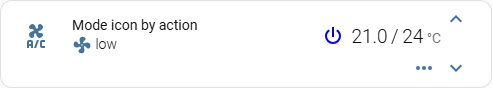
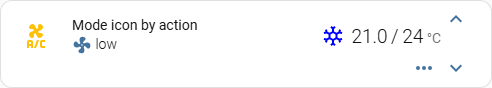
docs: config examples in English, and the answers around them corrected (#282)
## What

The examples are in English, and the answers around them are true - the second
half grew out of checking the first against a running Home Assistant.

### The examples, in English

- `docs/examples.md`: `name`, `fan_mode.source`, the `swing_mode` Off/On and the
  power values; the esphome intro points at the project itself, not the
  `esphome-mqtt-climate` repo, which is being removed.
- `docs/secondary-info.md`: the `hvac-action` Cooling labels, and a duplicated
  "set your own icon" block dropped.

### The answer that did not work

`sharedStyle` paints `ha-icon-button[color]` with `color` and `opacity`
`!important`, and the attribute goes on while the control is active -
`climate.isOn` for `hvac_mode`, `isOn` for a button. So a `color` from a style
template is dropped exactly when the control is doing the thing the example is
about. The mode icon answer was written for a cooling unit and worked only
while the unit was off.

The bench scenario had been green throughout: the MQTT fixture starts in `off`,
and the scenario drove `hvac_action` without ever switching the unit on, so it
never met the rule it was meant to hold up.

- `docs/examples.md`: two answers where there was one - colour by the mode, and
  colour by `hvac_action` - each carrying the `!important` and why.
- `docs/functions.md`: the rule stated where a reader looking up `style` lands,
  with an example that sets both a property that needs one and a property that
[…]

Changed region(s): [[0.6402, 0.2955, 0.7012, 0.5227], [0.0305, 0.4545, 0.0915, 0.5455], [0.061, 0.2727, 0.0915, 0.4318]]

diff --git a/docs/examples.md b/docs/examples.md
@@ -1,21 +1,19 @@
 # Examples
 
-[Home](../README.md) | [Configuration](configuration.md) | [Controls](controls.md) | [Indicators](indicators.md) | [Buttons](buttons.md) | [Functions](functions.md) | [Tap action](tap-action.md) | [Secondary info](secondary-info.md) | [Examples](examples.md) | [Development](development.md)
+[Home](../README.md) | [Configuration](configuration.md) | [Controls](controls.md) | [Indicators](indicators.md) | [Buttons](buttons.md) | [Functions](functions.md) | [Tap action](tap-action.md) | [Secondary info](secondary-info.md) | [Examples](examples.md) | [Development](development.md) | [Visual editor](visual-editor-parameters.md)
 
-> I originally wrote a plugin for my air conditioner implementation using [esphome](https://github.com/esphome/esphome)
-> if interested, you can source [esphome-mqtt-climate](https://github.com/artem-sedykh/esphome-mqtt-climate)
-> the following is a configuration example for my air conditioner
+> This is a configuration example for my air conditioner, built on [esphome](https://github.com/esphome/esphome).
 
 ```yaml
 type: custom:mini-climate
 entity: climate.dahatsu
-name: Кондиционер
+name: Air conditioner
 fan_mode:
   source:
-    auto: Авто
-    low: Слабый
-    medium: Средний
-    high: Сильный
+    auto: Auto
+    low: Low
+    medium: Medium
+    high: High
     # for my implementation fan_modes_al is an array of available fan modes of the selected hvac mode
     __filter: >
       (source, state, entity) => entity.attributes
@@ -30,8 +28,8 @@ buttons:
     # the drop-down list will remain active until swing_mode is off
     active: state => state !== 'off'
     source:
-      'off': Выкл
-      horizontal: Вкл
+      'off': Off
+      horizontal: On
     change_action: >
       (selected, state, entity) => this.call_service('climate', 'set_swing_mode', { entity_id: entity.entity_id, swing_mode: selected })
   # turbo air conditioning button
@@ -94,8 +92,8 @@ indicators:
     source:
       entity: switch.air_conditioner_kitchen_switch_l1
       values:
-        'on': 'вкл'
-        'off': 'выкл'
+        'on': 'on'
+        'off': 'off'
     # localization of values
     mapper: value => this.source.values[value]
 ```
@@ -165,21 +163,51 @@ indicators:
 
 ![an indicator showing hh:mm out of hh:mm:ss](https://raw.githubusercontent.com/artem-sedykh/mini-climate-card/master/images/answers/shortened-value.png)
 
+### The mode icon coloured by the mode it shows
+
+`hvac_mode.style` receives the mode as the first argument (`value`) and the
+entity as the second. Colour the icon by the mode - `cool`/`heat`/anything
+else - so the icon and its colour always agree.
+
+**The `!important` is what makes this work on a unit that is running.** While
+the climate entity is on, the card marks the mode button active and paints it
+with a rule of its own that is already `!important`; an inline style without
+one loses to it, and the colour appears only while the unit is off.
+
+```yaml
+hvac_mode:
+  style: >
+    (value, entity) => ({
+      color: value === 'cool'
+        ? 'blue !important'
+        : value === 'heat'
+          ? 'red !important'
+          : 'grey !important',
+    })
+```
+
+![the mode icon drawn as a blue snowflake while the unit is cooling](https://raw.githubusercontent.com/artem-sedykh/mini-climate-card/master/images/answers/mode-icon-by-state.png)
+
 ### The mode icon coloured by what the unit is doing
 
 `hvac_action` is what the unit is doing now - heating, cooling, idle - as
-against `state`, which is what it was asked to do. The style template is handed
-the entity, so both are available.
+against the mode above, which is what it was asked to do. A style template is
+handed the entity as its second argument, so both are in reach: colour by
+`hvac_action` when the question is what is happening rather than what was set.
+
+The `!important` is needed for the same reason as above, and note that
+`hvac_action` is optional - an entity that does not report it leaves every
+branch here on the fallback.
 
 ```yaml
 hvac_mode:
   style: >
     (value, entity) => ({
       color: entity.attributes.hvac_action === 'cooling'
-        ? 'blue'
+        ? 'blue !important'
         : entity.attributes.hvac_action === 'heating'
-          ? 'red'
-          : 'grey',
+          ? 'red !important'
+          : 'grey !important',
     })
 ```
 

diff --git a/docs/secondary-info.md b/docs/secondary-info.md
@@ -1,6 +1,6 @@
 # Secondary info
 
-[Home](../README.md) | [Configuration](configuration.md) | [Controls](controls.md) | [Indicators](indicators.md) | [Buttons](buttons.md) | [Functions](functions.md) | [Tap action](tap-action.md) | [Secondary info](secondary-info.md) | [Examples](examples.md) | [Development](development.md)
+[Home](../README.md) | [Configuration](configuration.md) | [Controls](controls.md) | [Indicators](indicators.md) | [Buttons](buttons.md) | [Functions](functions.md) | [Tap action](tap-action.md) | [Secondary info](secondary-info.md) | [Examples](examples.md) | [Development](development.md) | [Visual editor](visual-editor-parameters.md)
 
 ## secondary info functions
 
@@ -31,7 +31,7 @@ secondary_info: hvac-mode
 
 ## hvac-action type
 
-By default, translations from [ha frontend](https://github.com/home-assistant/frontend/blob/master/translations/frontend/en.json#L33)
+By default, translations from the [Home Assistant frontend](https://github.com/home-assistant/frontend/blob/master/src/translations/en.json)
 ```yaml
 type: custom:mini-climate
 entity: climate.dahatsu
@@ -45,7 +45,7 @@ entity: climate.dahatsu
 secondary_info:
   type: hvac-action
   source:
-    cooling: Охлаждение
+    cooling: Cooling
 ```
 You can set your own icon for each hvac-action
 ```yaml
@@ -56,18 +56,7 @@ secondary_info:
   source:
     cooling:
       icon: 'mdi:snowflake'
-      name: Охлаждение
-```
-You can set your own icon for each hvac-action
-```yaml
-type: custom:mini-climate
-entity: climate.dahatsu
-secondary_info:
-  type: hvac-action
-  source:
-    cooling:
-      icon: 'mdi:snowflake'
-      name: Охлаждение
+      name: Cooling
 ```
 Or you can use one permanent icon
 ```yaml
@@ -85,4 +74,4 @@ type: custom:mini-climate
 entity: climate.dahatsu
 secondary_info: fan-mode-dropdown
 ```
-![image](https://user-images.githubusercontent.com/861063/84180244-d80d0a80-aa8f-11ea-8275-f4e3db85fd31.png)
+![the fan mode dropdown open, with the current mode highlighted](https://raw.githubusercontent.com/artem-sedykh/mini-climate-card/master/images/fan-mode-dropdown.png)

diff --git a/docs/functions.md b/docs/functions.md
@@ -1,6 +1,6 @@
 # Functions
 
-[Home](../README.md) | [Configuration](configuration.md) | [Controls](controls.md) | [Indicators](indicators.md) | [Buttons](buttons.md) | [Functions](functions.md) | [Tap action](tap-action.md) | [Secondary info](secondary-info.md) | [Examples](examples.md) | [Development](development.md)
+[Home](../README.md) | [Configuration](configuration.md) | [Controls](controls.md) | [Indicators](indicators.md) | [Buttons](buttons.md) | [Functions](functions.md) | [Tap action](tap-action.md) | [Secondary info](secondary-info.md) | [Examples](examples.md) | [Development](development.md) | [Visual editor](visual-editor-parameters.md)
 
 A card configuration is YAML, but several options are **functions**, written as
 arrow functions in the YAML. The card parses their text, binds a context to
@@ -211,6 +211,28 @@ buttons:
     icon: mdi:power-plug
     style: (state) => state === 'on' ? { background: 'green' } : {}
 ```
+
+**`color` and `opacity` need an `!important` of their own.** While a control is
+on the card paints it with rules that already carry one, so those two
+properties coming from a template are dropped and the icon keeps the accent
+colour instead. Every other property - the `background` above included -
+applies as written.
+
+This bites exactly where it is least expected, because a style written for the
+`on` state and the card's own rule become active at the same moment.
+
+```yaml
+buttons:
+  power:
+    icon: mdi:power-plug
+    style: >
+      (state) => (state === 'on'
+        ? { background: 'green', color: 'white !important' }
+        : {})
+```
+
+The same holds for `hvac_mode` and `fan_mode`, whose icons are drawn by the
+same element - see [Controls](controls.md) for those.
 
 ## toggle_action
 

diff --git a/README.md b/README.md
@@ -80,10 +80,12 @@ and the same pages are in [`docs/`](https://github.com/artem-sedykh/mini-climate
 | [Controls](https://github.com/artem-sedykh/mini-climate-card/blob/master/docs/controls.md) | temperature, target temperature, hvac mode, fan mode |
 | [Indicators](https://github.com/artem-sedykh/mini-climate-card/blob/master/docs/indicators.md) | the read-only values under the entity name |
 | [Buttons](https://github.com/artem-sedykh/mini-climate-card/blob/master/docs/buttons.md) | buttons and dropdowns of your own |
+| [Functions](https://github.com/artem-sedykh/mini-climate-card/blob/master/docs/functions.md) | every option written as a function, its arguments and what it returns |
 | [Tap action](https://github.com/artem-sedykh/mini-climate-card/blob/master/docs/tap-action.md) | what a tap does, with examples |
 | [Secondary info](https://github.com/artem-sedykh/mini-climate-card/blob/master/docs/secondary-info.md) | the line under the name, and its types |
 | [Examples](https://github.com/artem-sedykh/mini-climate-card/blob/master/docs/examples.md) | a complete configuration |
 | [Development](https://github.com/artem-sedykh/mini-climate-card/blob/master/docs/development.md) | building the card, and what to do when it errors |
+| [Visual editor](https://github.com/artem-sedykh/mini-climate-card/blob/master/docs/visual-editor-parameters.md) | which options the built-in UI editor exposes, and which stay YAML-only |
 
 Links here are absolute on purpose: HACS renders this file outside GitHub and
 resolves a relative path against a URL of its own, where it 404s.

diff --git a/docs/controls.md b/docs/controls.md
@@ -1,6 +1,6 @@
 # Controls
 
-[Home](../README.md) | [Configuration](configuration.md) | [Controls](controls.md) | [Indicators](indicators.md) | [Buttons](buttons.md) | [Functions](functions.md) | [Tap action](tap-action.md) | [Secondary info](secondary-info.md) | [Examples](examples.md) | [Development](development.md)
+[Home](../README.md) | [Configuration](configuration.md) | [Controls](controls.md) | [Indicators](indicators.md) | [Buttons](buttons.md) | [Functions](functions.md) | [Tap action](tap-action.md) | [Secondary info](secondary-info.md) | [Examples](examples.md) | [Development](development.md) | [Visual editor](visual-editor-parameters.md)
 
 ## temperature
 
@@ -120,6 +120,11 @@ hvac_mode:
   change_action: >
     (selected, entity) => this.call_service('climate', 'set_hvac_mode', { entity_id: entity.entity_id, hvac_mode: selected })
 ``` 
+
+The `!important` on that `color` is not decoration. While the climate entity is
+on, the card marks the mode button active and paints it with a rule that
+carries one already, so a plain `color` from the template is dropped - see
+[style](functions.md#style).
 
 ## fan_mode
 

diff --git a/docs/development.md b/docs/development.md
@@ -1,6 +1,6 @@
 # Development
 
-[Home](../README.md) | [Configuration](configuration.md) | [Controls](controls.md) | [Indicators](indicators.md) | [Buttons](buttons.md) | [Functions](functions.md) | [Tap action](tap-action.md) | [Secondary info](secondary-info.md) | [Examples](examples.md) | [Development](development.md)
+[Home](../README.md) | [Configuration](configuration.md) | [Controls](controls.md) | [Indicators](indicators.md) | [Buttons](buttons.md) | [Functions](functions.md) | [Tap action](tap-action.md) | [Secondary info](secondary-info.md) | [Examples](examples.md) | [Development](development.md) | [Visual editor](visual-editor-parameters.md)
 
 *If you plan to contribute back to this repo, please fork & create the PR against the [dev](https://github.com/artem-sedykh/mini-climate-card/tree/dev) branch.*
 

diff --git a/docs/indicators.md b/docs/indicators.md
@@ -1,6 +1,6 @@
 # Indicators
 
-[Home](../README.md) | [Configuration](configuration.md) | [Controls](controls.md) | [Indicators](indicators.md) | [Buttons](buttons.md) | [Functions](functions.md) | [Tap action](tap-action.md) | [Secondary info](secondary-info.md) | [Examples](examples.md) | [Development](development.md)
+[Home](../README.md) | [Configuration](configuration.md) | [Controls](controls.md) | [Indicators](indicators.md) | [Buttons](buttons.md) | [Functions](functions.md) | [Tap action](tap-action.md) | [Secondary info](secondary-info.md) | [Examples](examples.md) | [Development](development.md) | [Visual editor](visual-editor-parameters.md)
 
 > The indicators display additional information on the card, for example, you can display humidity, consumption, etc.  
 > Adding a simple indicator:

diff --git a/docs/buttons.md b/docs/buttons.md
@@ -1,6 +1,6 @@
 # Buttons
 
-[Home](../README.md) | [Configuration](configuration.md) | [Controls](controls.md) | [Indicators](indicators.md) | [Buttons](buttons.md) | [Functions](functions.md) | [Tap action](tap-action.md) | [Secondary info](secondary-info.md) | [Examples](examples.md) | [Development](development.md)
+[Home](../README.md) | [Configuration](configuration.md) | [Controls](controls.md) | [Indicators](indicators.md) | [Buttons](buttons.md) | [Functions](functions.md) | [Tap action](tap-action.md) | [Secondary info](secondary-info.md) | [Examples](examples.md) | [Development](development.md) | [Visual editor](visual-editor-parameters.md)
 
 > You can add various buttons, supported types: button and dropdown
 

diff --git a/docs/tap-action.md b/docs/tap-action.md
@@ -1,6 +1,6 @@
 # Tap action
 
-[Home](../README.md) | [Configuration](configuration.md) | [Controls](controls.md) | [Indicators](indicators.md) | [Buttons](buttons.md) | [Functions](functions.md) | [Tap action](tap-action.md) | [Secondary info](secondary-info.md) | [Examples](examples.md) | [Development](development.md)
+[Home](../README.md) | [Configuration](configuration.md) | [Controls](controls.md) | [Indicators](indicators.md) | [Buttons](buttons.md) | [Functions](functions.md) | [Tap action](tap-action.md) | [Secondary info](secondary-info.md) | [Examples](examples.md) | [Development](development.md) | [Visual editor](visual-editor-parameters.md)
 
 ## tap action object
 

diff --git a/docs/visual-editor-parameters.md b/docs/visual-editor-parameters.md
@@ -1,5 +1,7 @@
 # Mini Climate Card - Visual Editor Parameters
 
+[Home](../README.md) | [Configuration](configuration.md) | [Controls](controls.md) | [Indicators](indicators.md) | [Buttons](buttons.md) | [Functions](functions.md) | [Tap action](tap-action.md) | [Secondary info](secondary-info.md) | [Examples](examples.md) | [Development](development.md) | [Visual editor](visual-editor-parameters.md)
+
 The following parameters are configurable via the built-in visual (UI) editor.  
 Parameters that require JavaScript function strings (`change_action`, `active`, `style`, etc.) remain YAML-only.
 
